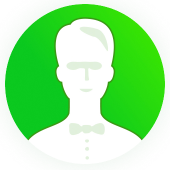
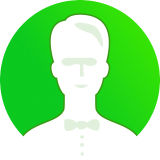
fix

Changed region(s): [[0.0, 0.0, 1.0, 0.9688], [0.4688, 0.5, 0.5312, 0.5625], [0.375, 0.75, 0.4062, 0.7812]]

diff --git a/src/shared/Card/views/CardReview.scss b/src/shared/Card/views/CardReview.scss
@@ -57,6 +57,7 @@
     }
 
     #{$root}__title {
+      text-align: center;
       font-weight: 300;
       font-size: 13px;
       line-height: 14px;
@@ -103,6 +104,7 @@
   }
 
   &__avatar {
+    background-color: #fff;
     object-fit: cover;
     height: 100%;
   }

diff --git a/src/shared/Header/views/HeaderProfile.scss b/src/shared/Header/views/HeaderProfile.scss
@@ -15,7 +15,7 @@
     height: 38px;
     margin-right: 20px;
     border-radius: 50%;
-    background-color: $color-gg-3;
+    background-color: #fff;
     object-fit: cover;
 
     @include desktop {

diff --git a/src/shared/ProfileLayout/views/ProfileSidebar.scss b/src/shared/ProfileLayout/views/ProfileSidebar.scss
@@ -59,6 +59,7 @@
     border: 10px solid #fff;
     border-radius: 50%;
     box-shadow: 0 0 30px rgba(12, 112, 23, 0.1);
+    background-color: #fff;
 
     @include desktop {
       width: 160px;

diff --git a/src/shared/ProjectLayout/views/ProjectSidebar.scss b/src/shared/ProjectLayout/views/ProjectSidebar.scss
@@ -44,6 +44,7 @@
     border: 10px solid #fff;
     border-radius: 50%;
     box-shadow: 0 0 30px rgba(12, 112, 23, 0.1);
+    background-color: #fff;
 
     @include desktop {
       width: 160px;

diff --git a/src/shared/Card/views/CardInfo.scss b/src/shared/Card/views/CardInfo.scss
@@ -69,6 +69,7 @@
     border-radius: 50%;
     width: 100%;
     height: 100%;
+    background-color: #fff;
   }
 
   &__top-info {
